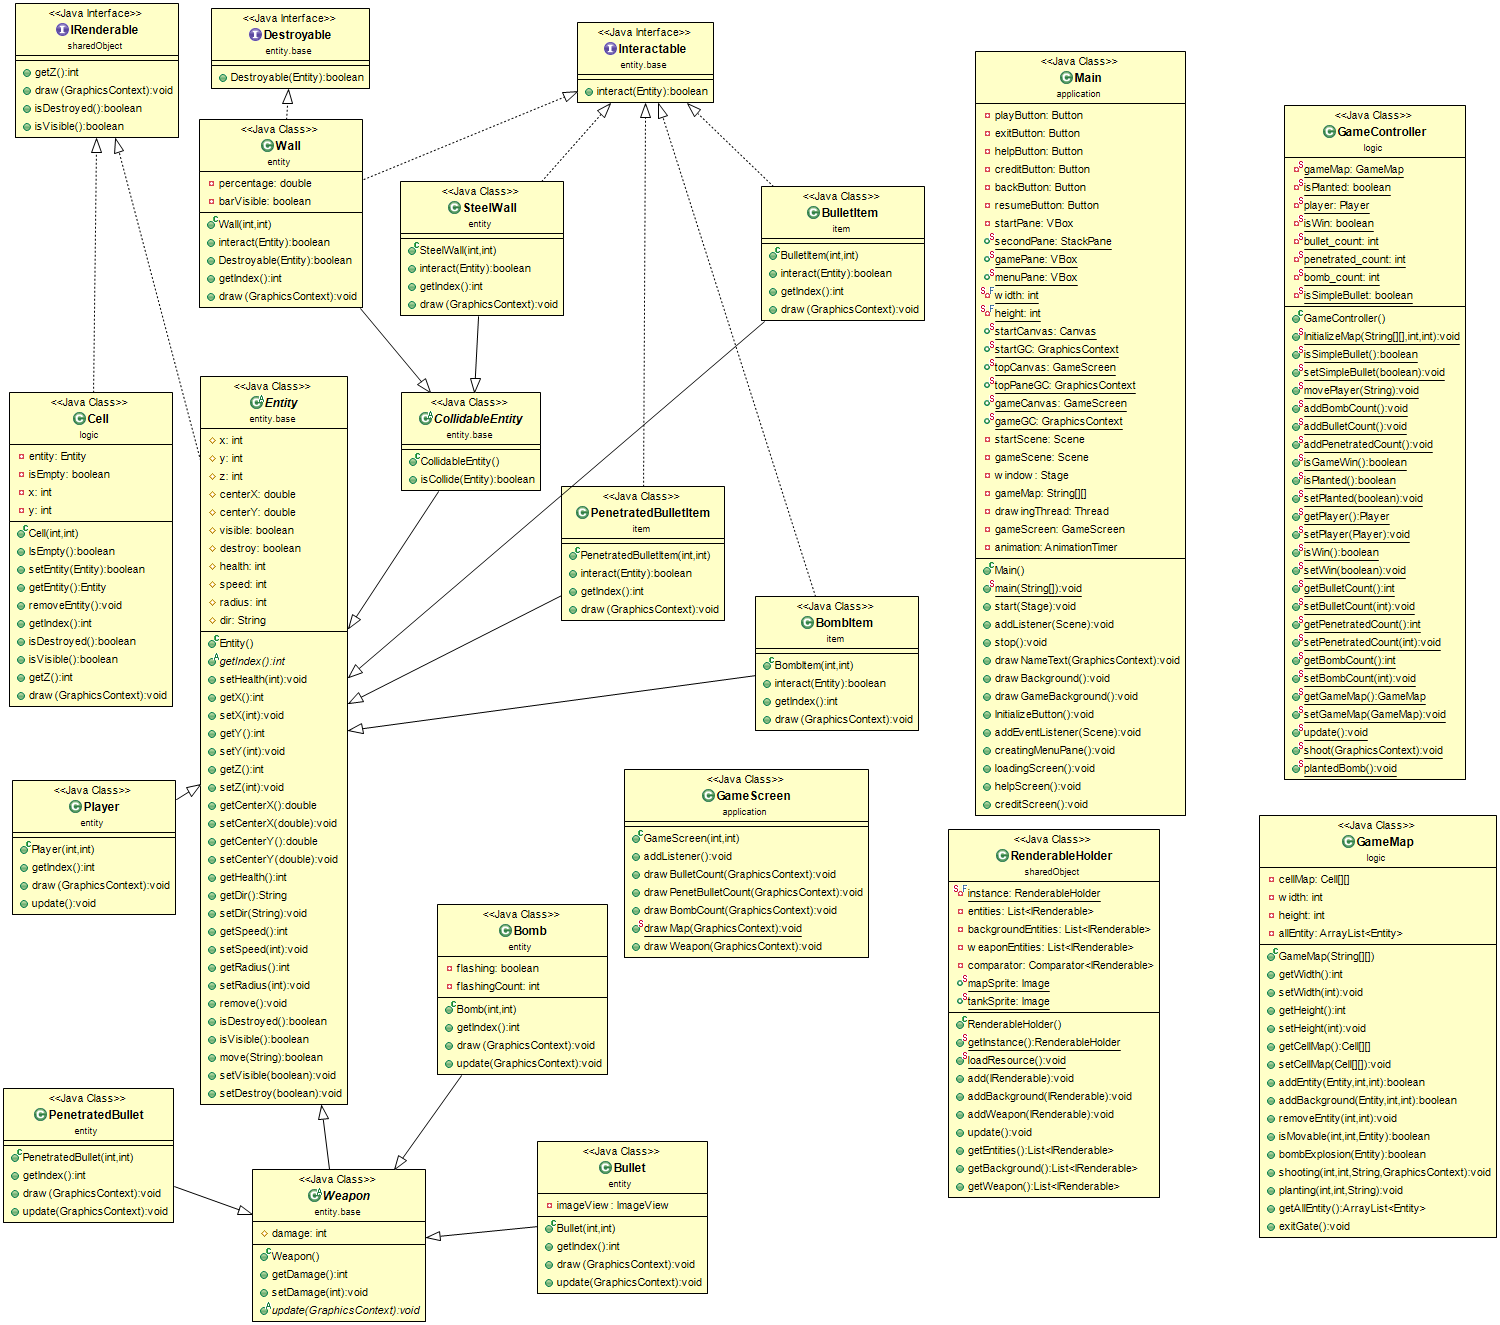
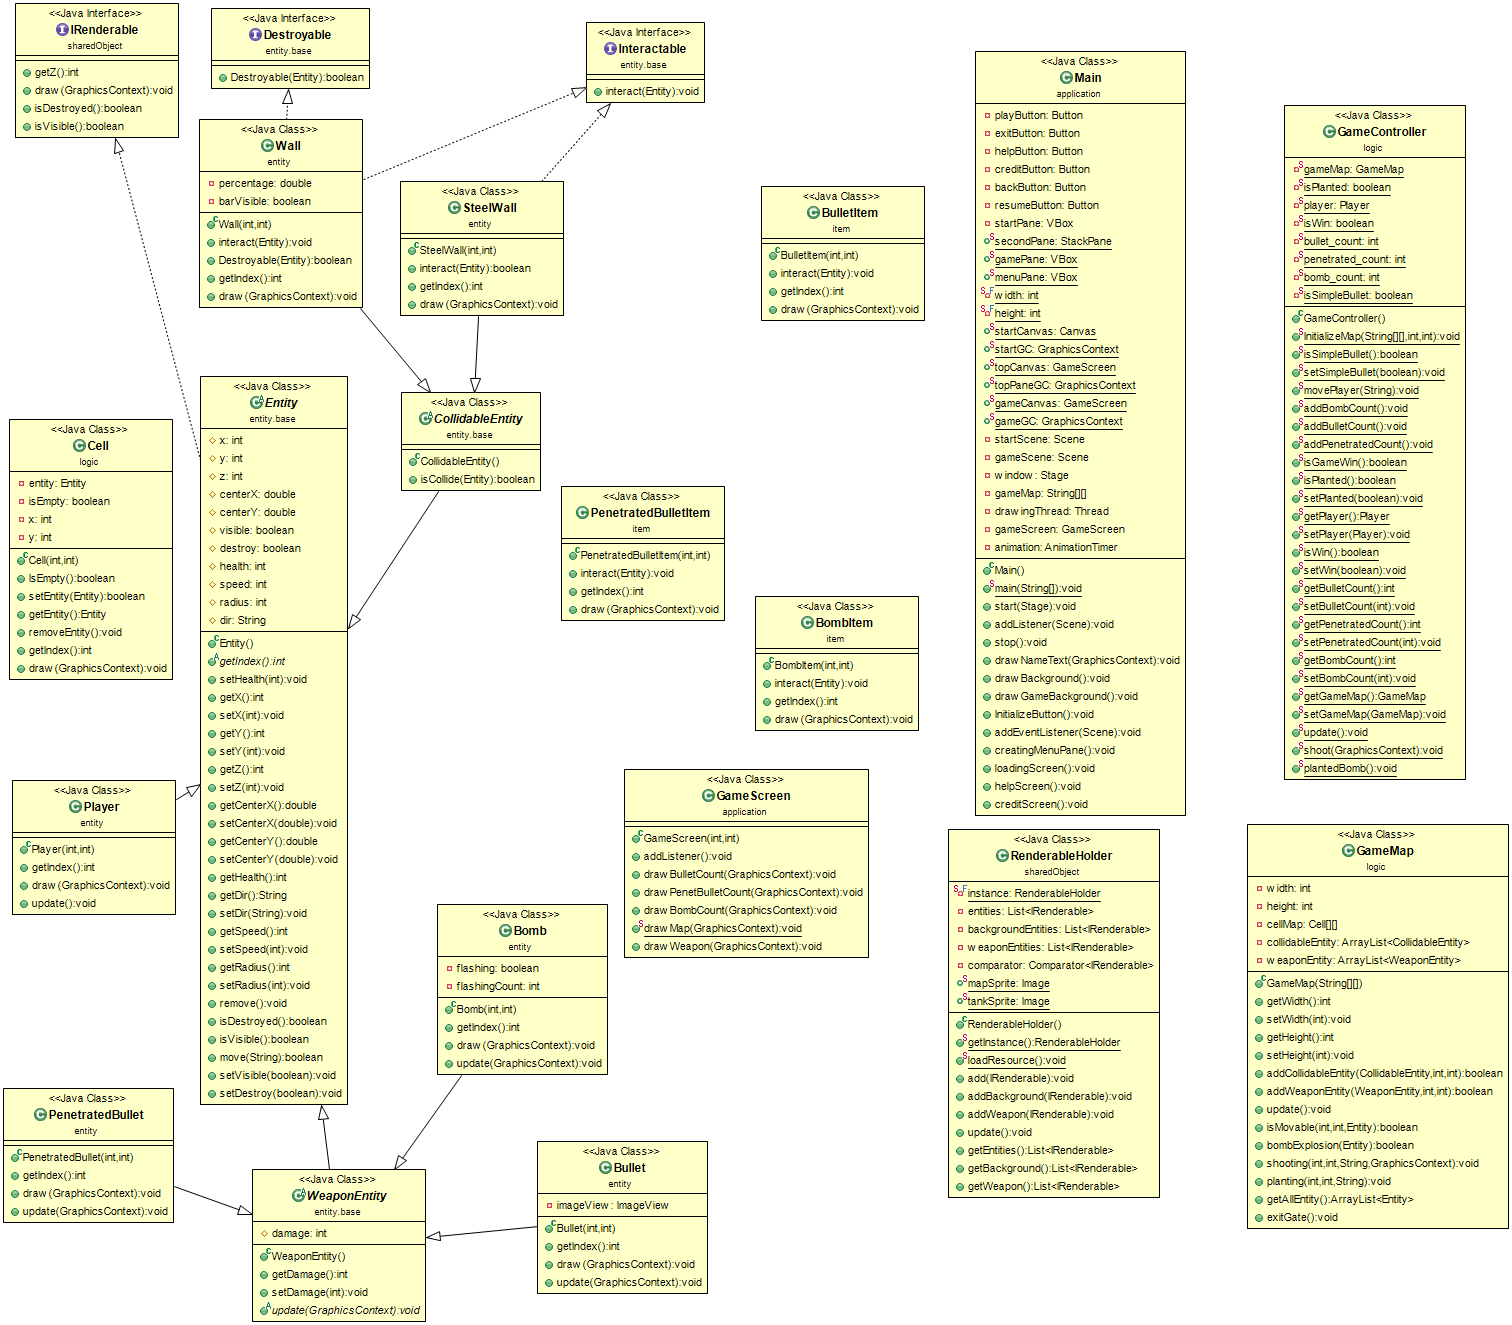
Edit Interactable and edit GameMap

diff --git a/src/logic/GameMap.java b/src/logic/GameMap.java
@@ -9,12 +9,11 @@ import sharedObject.RenderableHolder;
 
 public class GameMap {
 
-	private Cell[][] cellMap;
-
 	private int width;
 	private int height;
-
-	private ArrayList<Entity> allEntity;
+	private Cell[][] cellMap;
+	private ArrayList<CollidableEntity> collidableEntity;
+	private ArrayList<WeaponEntity> weaponEntity;
 
 	/*
 	 * public GameMap(int column, int row) { allEntity = new ArrayList<Entity>();
@@ -26,7 +25,6 @@ public class GameMap {
 	 */
 
 	public GameMap(String[][] map) {
-		allEntity = new ArrayList<Entity>();
 
 		int column = map[0].length;
 		int row = map.length;
@@ -34,29 +32,27 @@ public class GameMap {
 		setWidth(column);
 		setHeight(row);
 
-		cellMap = new Cell[row][column];
-
 		for (int i = 0; i < row; i++) {
 			for (int j = 0; j < column; j++) {
-				cellMap[i][j] = new Cell(j, i);
-				RenderableHolder.getInstance().addBackground(cellMap[i][j]);
+				cellMap[j][i] = new Cell(j, i);
+				RenderableHolder.getInstance().add(cellMap[j][i]);
 				switch (map[i][j]) {
 				case "0":
 					break;
 				case "B":
-					addEntity(new BulletItem(j, i), j, i);
+					addCollidableEntity(new BulletItem(j, i), j, i);
 					break;
 				case "BM":
-					addEntity(new BombItem(j, i), j, i);
+					addCollidableEntity(new BombItem(j, i), j, i);
 					break;
 				case "PB":
-					addEntity(new PenetratedBulletItem(j, i), j, i);
+					addCollidableEntity(new PenetratedBulletItem(j, i), j, i);
 					break;
 				case "SW":
-					addEntity(new SteelWall(j, i), j, i);
+					addCollidableEntity(new SteelWall(j, i), j, i);
 					break;
 				case "W":
-					addEntity(new Wall(j, i), j, i);
+					addCollidableEntity(new Wall(j, i), j, i);
 					break;
 				default:
 					break;
@@ -81,34 +77,34 @@ public class GameMap {
 		this.height = height;
 	}
 
-	public Cell[][] getCellMap() {
-		return cellMap;
-	}
-
-	public void setCellMap(Cell[][] cellMap) {
-		this.cellMap = cellMap;
-	}
-
-	public boolean addEntity(Entity e, int x, int y) {
-		allEntity.add(e);
+	public boolean addCollidableEntity(CollidableEntity e, int x, int y) {
+		collidableEntity.add(e);
 		RenderableHolder.getInstance().add(e);
-
 		boolean b = cellMap[y][x].setEntity(e);
 		return b;
 	}
 
-	public boolean addBackground(Entity e, int x, int y) {
-		allEntity.add(e);
-		RenderableHolder.getInstance().addBackground(e);
-
+	public boolean addWeaponEntity(WeaponEntity e, int x, int y) {
+		weaponEntity.add(e);
+		RenderableHolder.getInstance().add(e);
 		boolean b = cellMap[y][x].setEntity(e);
 		return b;
 	}
 
-	public void removeEntity(int x, int y) {
-		allEntity.remove(cellMap[y][x].getEntity());
-//		System.out.println(allEntity.remove(cellMap[x][y].getEntity()));
-		cellMap[y][x].removeEntity();
+//	public void removeEntity(int x, int y) {
+//		allEntity.remove(cellMap[y][x].getEntity());
+//		cellMap[y][x].removeEntity();
+//	}
+
+	public void update() {
+		GameController.getPlayer().update();
+		for (CollidableEntity e1 : collidableEntity) {
+			for (WeaponEntity e2 : weaponEntity) {
+				if (e1.isCollide(e2)) {
+					e1.interact(e2);
+				}
+			}
+		}
 	}
 
 	public boolean isMovable(int x, int y, Entity e) {

diff --git a/src/logic/Cell.java b/src/logic/Cell.java
@@ -6,7 +6,7 @@ import javafx.scene.image.WritableImage;
 import sharedObject.IRenderable;
 import sharedObject.RenderableHolder;
 
-public class Cell implements IRenderable {
+public class Cell extends Entity {
 	private Entity entity;
 	private boolean isEmpty;
 	private int x, y;
@@ -16,6 +16,9 @@ public class Cell implements IRenderable {
 		entity = null;
 		this.x = x;
 		this.y = y;
+		this.z = -999;
+		this.visible = true;
+		this.destroy = false;
 	}
 
 	public boolean IsEmpty() {
@@ -28,7 +31,7 @@ public class Cell implements IRenderable {
 			entity = e;
 			return true;
 		} else {
-			if (e instanceof Weapon) {
+			if (e instanceof WeaponEntity) {
 				Interactable e1 = (Interactable) entity;
 				return e1.interact(e);
 			} else {
@@ -48,21 +51,6 @@ public class Cell implements IRenderable {
 
 	public int getIndex() {
 		return 3;
-	}
-
-	@Override
-	public boolean isDestroyed() {
-		return false;
-	}
-
-	@Override
-	public boolean isVisible() {
-		return true;
-	}
-
-	@Override
-	public int getZ() {
-		return -999;
 	}
 
 	@Override

diff --git a/src/item/PenetratedBulletItem.java b/src/item/PenetratedBulletItem.java
@@ -6,20 +6,22 @@ import javafx.scene.image.WritableImage;
 import logic.GameController;
 import sharedObject.RenderableHolder;
 
-public class PenetratedBulletItem extends Entity implements Interactable {
+public class PenetratedBulletItem extends CollidableEntity {
 	public PenetratedBulletItem(int x, int y) {
 		this.x = x;
 		this.y = y;
 		this.z = 12;
+		this.radius = 15;
+		this.centerX = x + radius;
+		this.centerY = y + radius;
 		visible = true;
 		destroy = false;
 	}
 
-	public boolean interact(Entity e) {
+	public void interact(Entity e) {
 		this.remove();
 		GameController.addPenetratedCount();
 		destroy = true;
-		return true;
 	}
 
 	@Override

diff --git a/src/item/BulletItem.java b/src/item/BulletItem.java
@@ -6,20 +6,23 @@ import javafx.scene.image.WritableImage;
 import logic.GameController;
 import sharedObject.RenderableHolder;
 
-public class BulletItem extends Entity implements Interactable {
+public class BulletItem extends CollidableEntity {
 	public BulletItem(int x, int y) {
 		this.x = x;
 		this.y = y;
 		this.z = 11;
+		this.radius = 15;
+		this.centerX = x + radius;
+		this.centerY = y + radius;
 		visible = true;
 		destroy = false;
 	}
 
-	public boolean interact(Entity e) {
+	public void interact(Entity e) {
 		this.remove();
 		GameController.addBulletCount();
 		destroy = true;
-		return true;
+		e.setDestroy(true);
 	}
 
 	@Override

diff --git a/src/item/BombItem.java b/src/item/BombItem.java
@@ -6,20 +6,23 @@ import javafx.scene.image.WritableImage;
 import logic.*;
 import sharedObject.RenderableHolder;
 
-public class BombItem extends Entity implements Interactable {
+public class BombItem extends CollidableEntity {
 	public BombItem(int x, int y) {
 		this.x = x;
 		this.y = y;
 		this.z = 10;
+		this.radius = 15;
+		this.centerX = x + radius;
+		this.centerY = y + radius;
 		visible = true;
 		destroy = false;
 	}
 
-	public boolean interact(Entity e) {
+	public void interact(Entity e) {
 		this.remove();
 		GameController.addBombCount();
 		destroy = true;
-		return true;
+		e.setDestroy(true);
 	}
 
 	@Override

diff --git a/src/entity/Wall.java b/src/entity/Wall.java
@@ -28,16 +28,12 @@ public class Wall extends CollidableEntity implements Interactable, Destroyable 
 	}
 
 	@Override
-	public boolean interact(Entity e) {
-		if (e instanceof Weapon && isCollide(e)) {
-			setHealth(getHealth() - ((Weapon) e).getDamage());
+	public void interact(Entity e) {
+			setHealth(getHealth() - ((WeaponEntity) e).getDamage());
 			e.setDestroy(true);
 			e.setVisible(false);
 			this.Destroyable(e);
 			this.barVisible = true;
-			return true;
-		}
-		return false;
 	}
 
 	@Override

diff --git a/src/entity/base/CollidableEntity.java b/src/entity/base/CollidableEntity.java
@@ -1,6 +1,6 @@
 package entity.base;
 
-public abstract class CollidableEntity extends Entity {
+public abstract class CollidableEntity extends Entity implements Interactable {
 	public boolean isCollide(Entity e) {
 		double distance = Math.hypot(e.getCenterX() - this.getCenterX(), e.getCenterX() - this.getCenterY());
 		return distance <= e.getRadius() + this.getRadius();

diff --git a/src/entity/SteelWall.java b/src/entity/SteelWall.java
@@ -19,7 +19,7 @@ public class SteelWall extends CollidableEntity implements Interactable {
 
 	@Override
 	public boolean interact(Entity e) {
-		if (e instanceof Weapon && isCollide(e)) {
+		if (e instanceof WeaponEntity && isCollide(e)) {
 			e.setDestroy(true);
 			e.setVisible(false);
 			return true;

diff --git a/src/entity/PenetratedBullet.java b/src/entity/PenetratedBullet.java
@@ -9,7 +9,7 @@ import logic.Cell;
 import logic.GameController;
 import sharedObject.RenderableHolder;
 
-public class PenetratedBullet extends Weapon {
+public class PenetratedBullet extends WeaponEntity {
 
 	public PenetratedBullet(int x, int y) {
 		this.x = x;

diff --git a/src/entity/Bomb.java b/src/entity/Bomb.java
@@ -7,7 +7,7 @@ import javafx.scene.paint.Color;
 import logic.Cell;
 import logic.GameController;
 
-public class Bomb extends Weapon {
+public class Bomb extends WeaponEntity {
 
 	private boolean flashing;
 	private int flashingCount;

diff --git a/src/entity/base/WeaponEntity.java b/src/entity/base/WeaponEntity.java
@@ -2,7 +2,7 @@ package entity.base;
 
 import javafx.scene.canvas.GraphicsContext;
 
-public abstract class Weapon extends Entity{
+public abstract class WeaponEntity extends Entity{
 	protected int damage;
 
 	public int getDamage() {

diff --git a/src/entity/Bullet.java b/src/entity/Bullet.java
@@ -14,7 +14,7 @@ import sharedObject.RenderableHolder;
 import application.GameScreen;
 import application.Main;
 
-public class Bullet extends Weapon {
+public class Bullet extends WeaponEntity {
 
 	private ImageView imageView;
 
